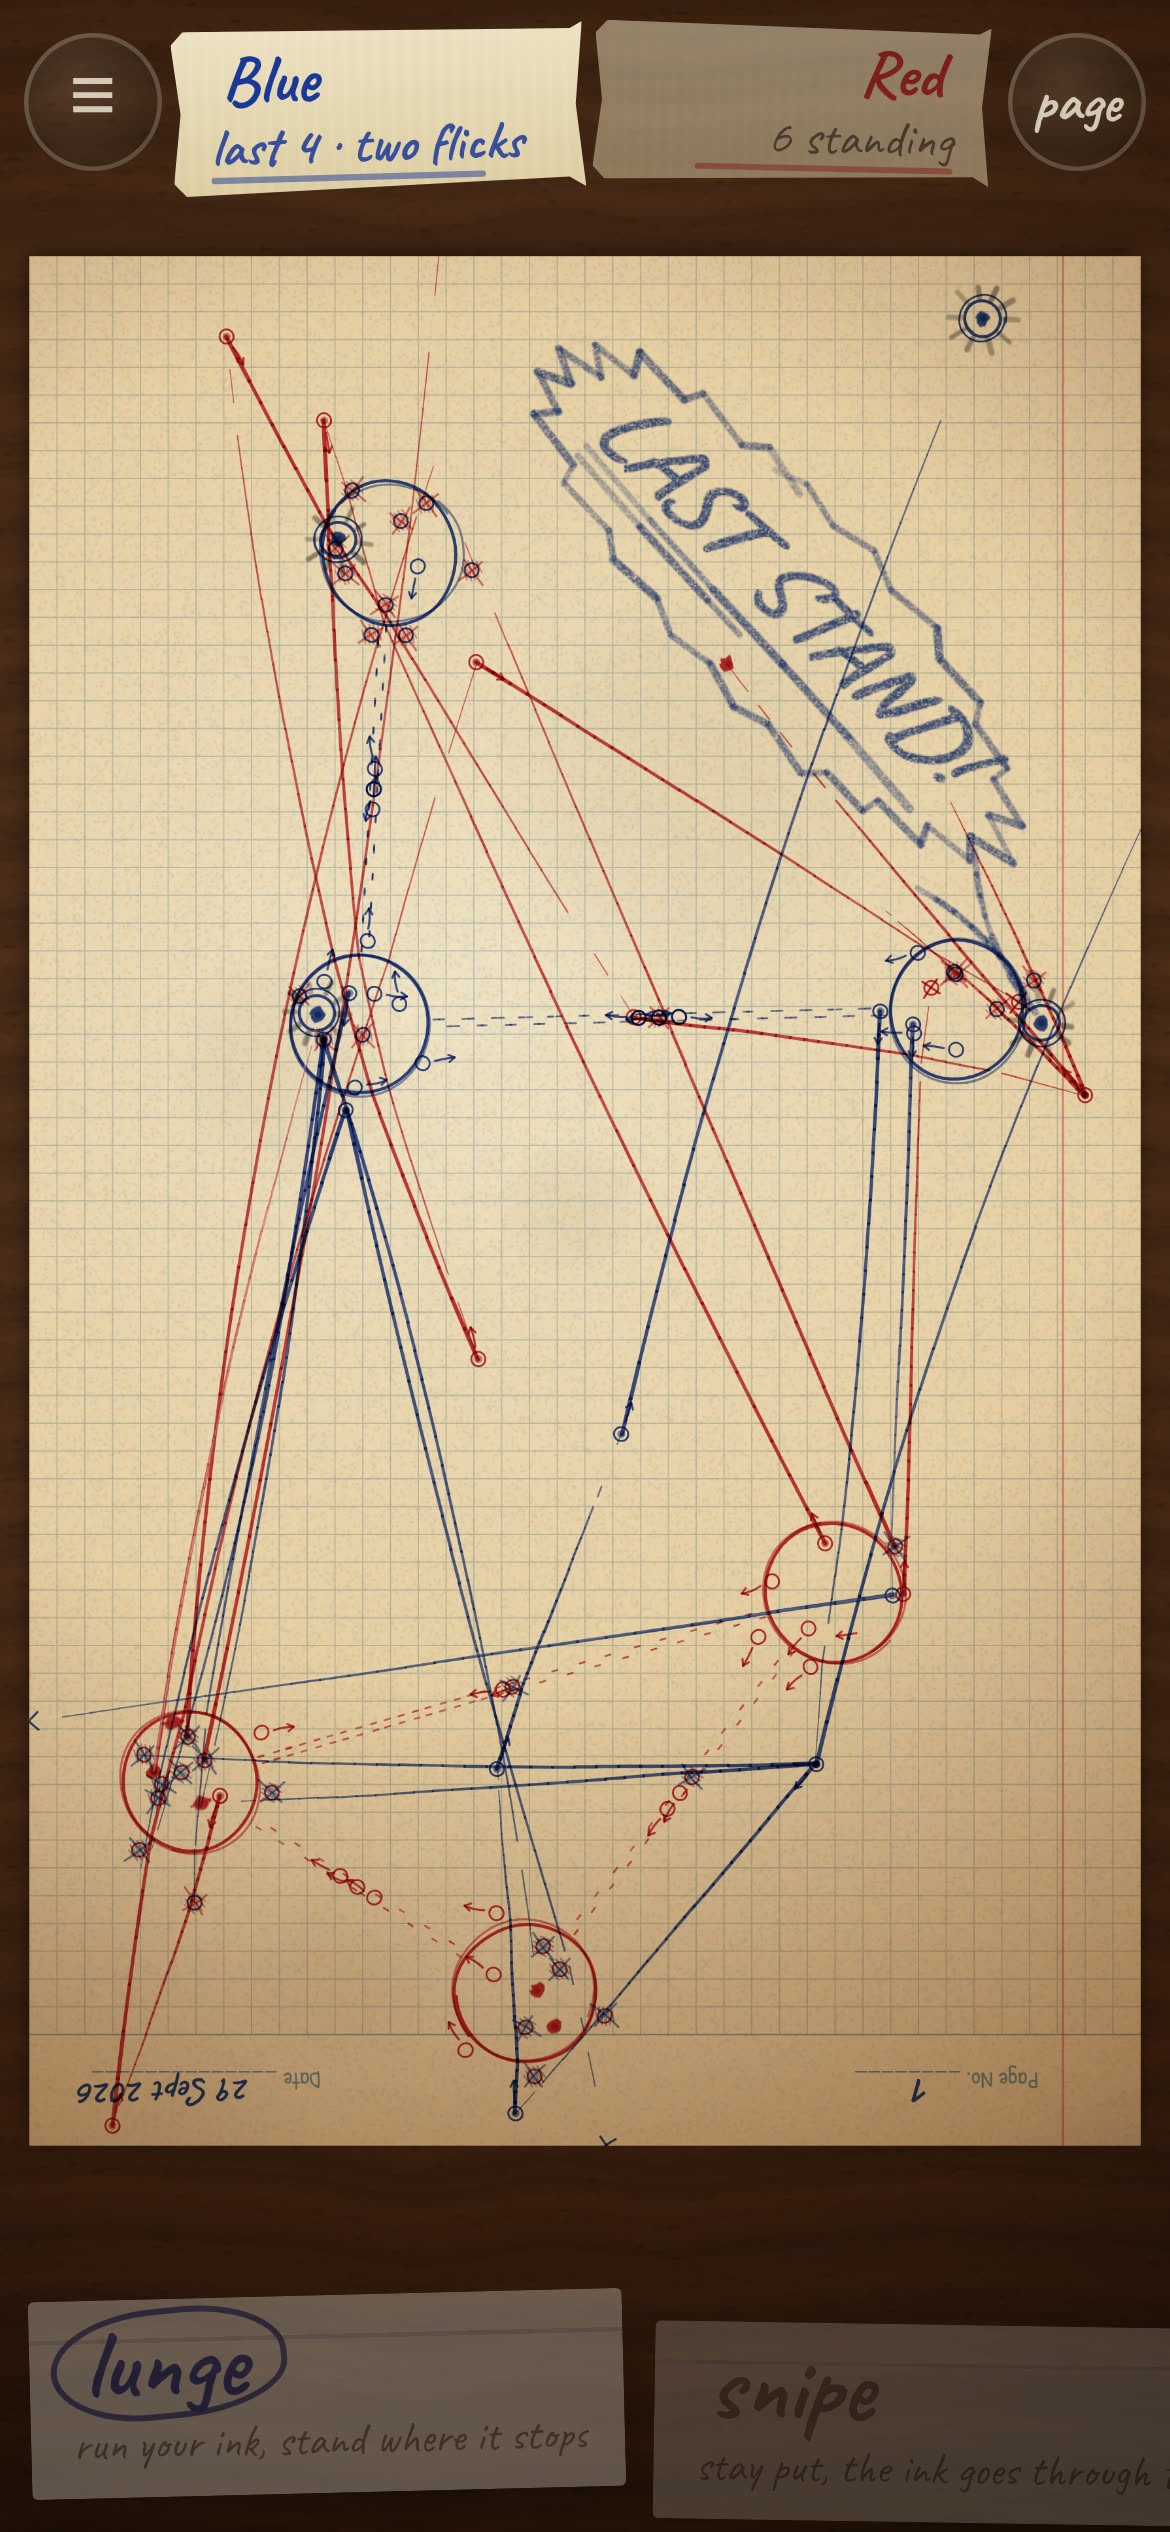
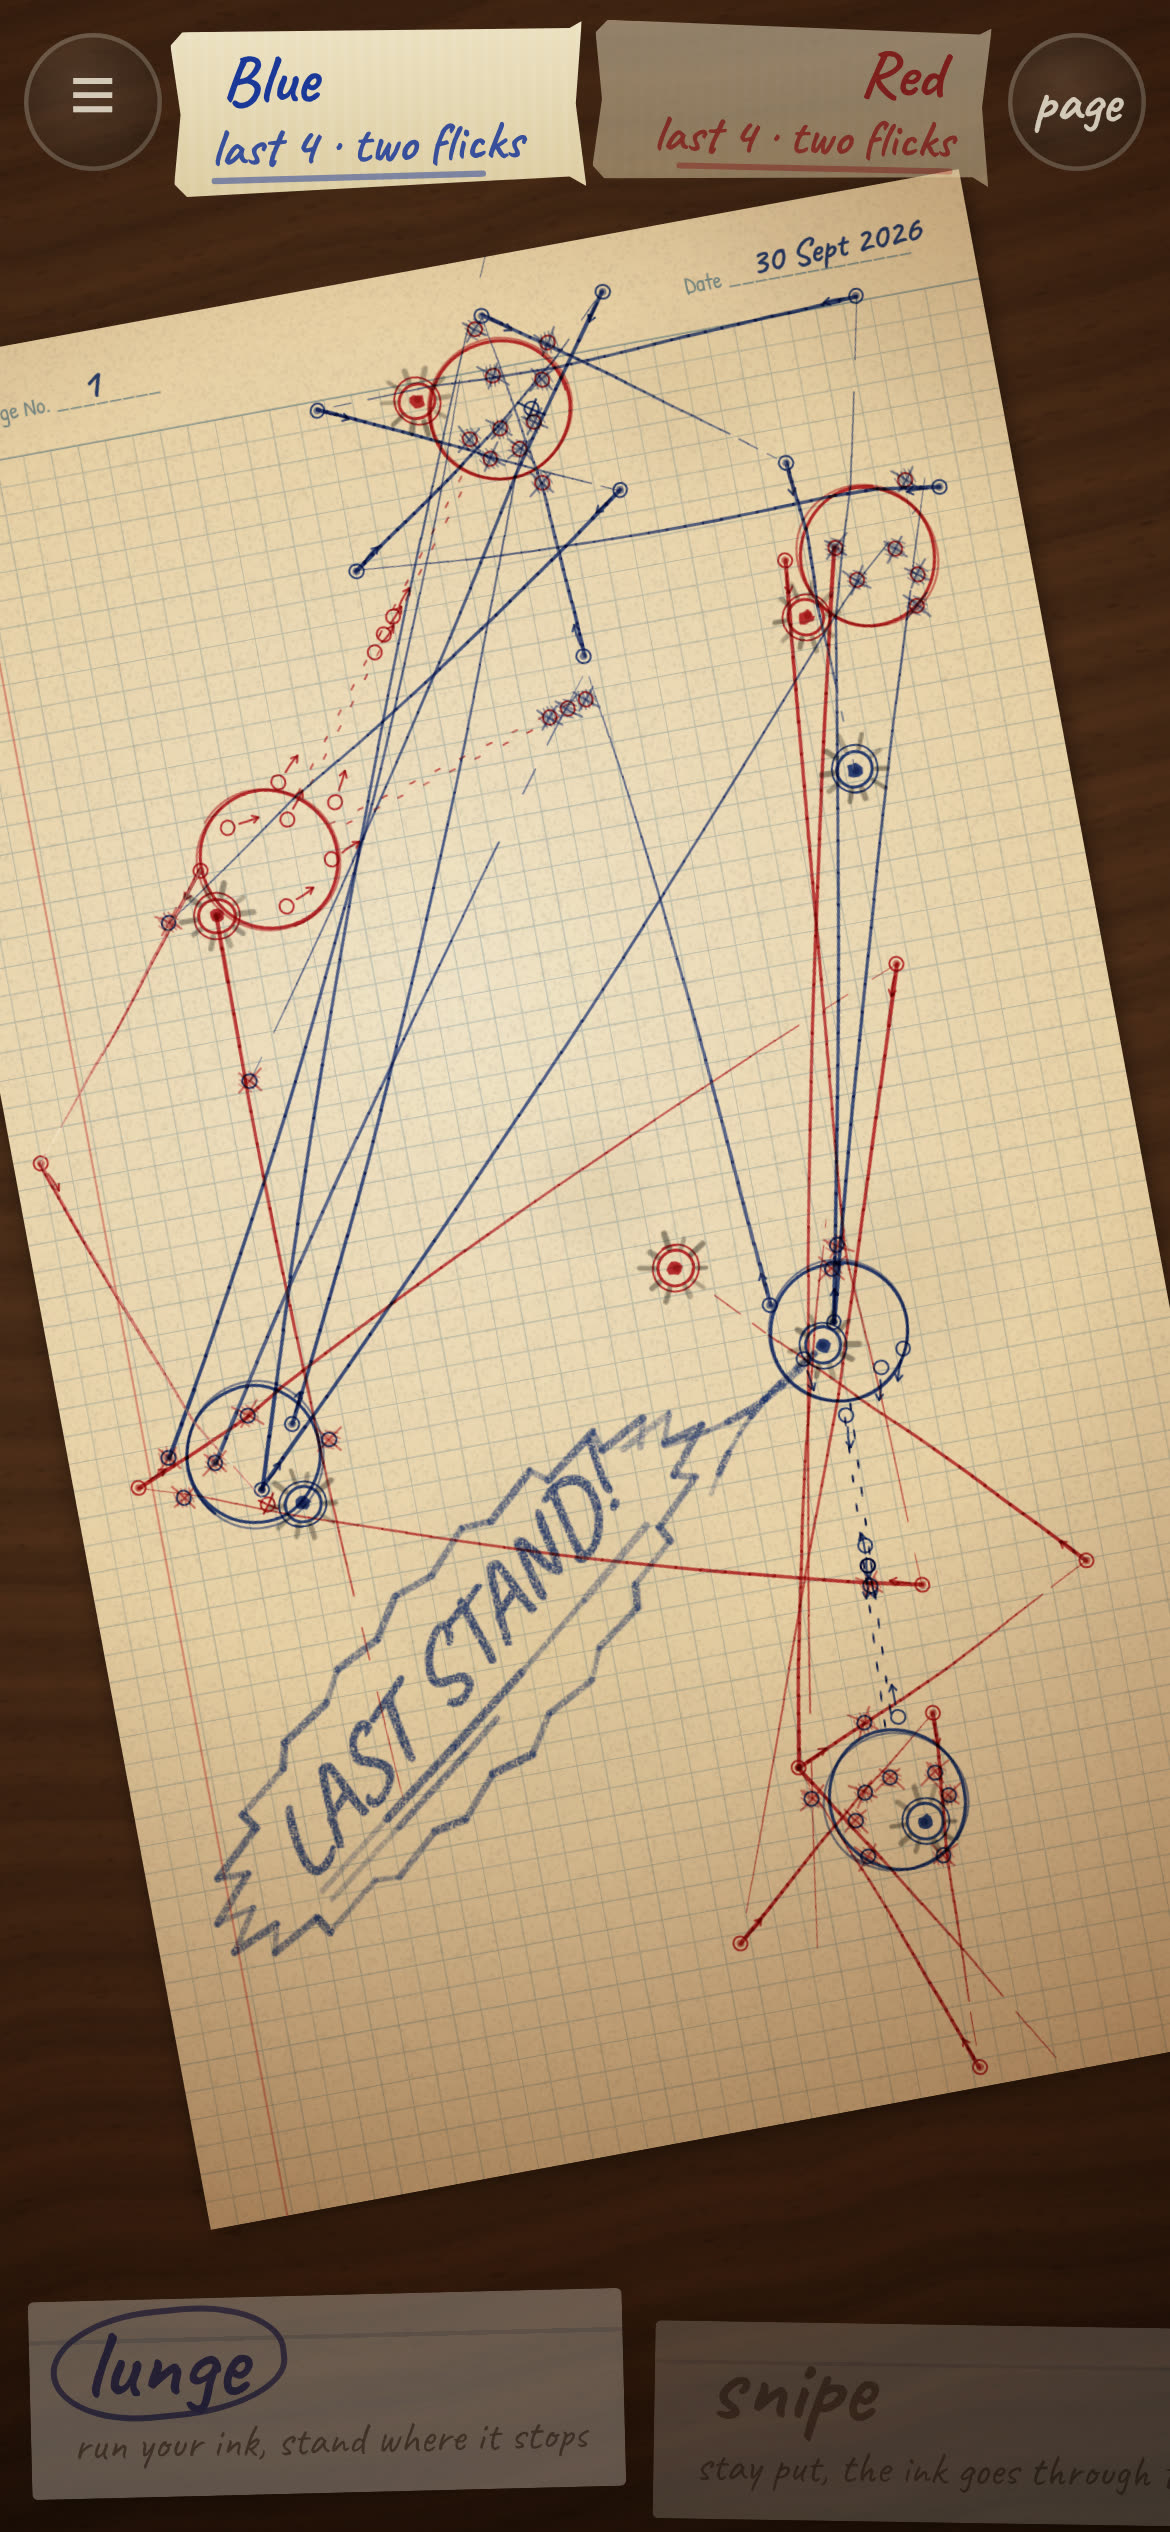
Moments: a lasting circled +1 from state, the last-stand note beside the survivors, notes wait for the camera
Two for one: a circled +n in the shooter's pen stays beside him until the extra flick is used. It derives from state (owedFlick: flicks left against the turn's allotment less strokes drawn, last action a snipe), so reloads, rooms and replays show it; it replaces the single-stroke tally. Last stand: the soldier nearest the survivors' centre speaks. Announcements wait (max 1.5s) for the camera to settle, since a note's gap is chosen once and one chosen mid-swing could sit off screen.

Changed region(s): [[0.0, 0.0312, 1.0, 0.9048]]

diff --git a/src/main.ts b/src/main.ts
@@ -9,7 +9,7 @@ import { Camera, type Pose } from "./camera";
 import { cue, onCue } from "./cues";
 import { aimError, pull, release, wobble, type Aim as Pull } from "./flick";
 import {
-  act, canArrange, canSend, garrison, illegal, newGame, other, pathLen, sendMax,
+  act, canArrange, canSend, garrison, illegal, newGame, other, owedFlick, pathLen, sendMax,
   type Action, type Flick, type GameState, type Kind, type Outcome, type Player, type Pt,
 } from "./game";
 import { jotOrder, pickSoldier, inBase } from "./hand";
@@ -624,7 +624,6 @@ function fire(f: Flick, power: number, lean: number, opts: { pen?: boolean; cam?
   const first = s.marks.length; // the flick appends its stroke, then its crosses
   const before = s.soldiers.map((x) => ({ x: x.x, y: x.y }));
   const o = turn.flick(s, f);
-  earnedTally = null;
   save();
   selected = undefined;
   aim = null;
@@ -723,10 +722,24 @@ function speak(kind: BubbleKind, id: number, t0 = wall, seed?: number) {
   if (bubbles.offer(kind, id, t0, seed ?? Math.floor(seeded(s.seed, s.turn, id, kind.length) * 2 ** 31))) dirty = true;
 }
 
-/** A moment the field must announce: written whatever the chance, after any other moment showing (bubble.ts Bubbles.moment). */
-function announce(kind: BubbleKind, id: number, text: string, t0 = wall + 120) {
+/**
+ * A moment the field must announce: written whatever the chance, after any other
+ * moment showing (bubble.ts Bubbles.moment). It waits for the camera to settle
+ * first (a note's gap is chosen once, so one picked while the camera swings out
+ * to bird's-eye would sit where the screen no longer is), for at most 1.5s.
+ */
+const momentQ: { kind: BubbleKind; id: number; text: string; since: number }[] = [];
+function announce(kind: BubbleKind, id: number, text: string, delay = 120) {
   if (!heard() || !s.soldiers[id]?.alive) return;
-  if (bubbles.moment(kind, id, t0, Math.floor(seeded(s.seed, s.turn, id, kind.length, text.length) * 2 ** 31), text)) dirty = true;
+  momentQ.push({ kind, id, text, since: wall + delay });
+  dirty = true;
+}
+function flushMoments() {
+  while (momentQ.length && wall >= momentQ[0].since && (cam.settled || wall - momentQ[0].since > 1500)) {
+    const m = momentQ.shift()!;
+    if (!heard() || !s.soldiers[m.id]?.alive) continue;
+    if (bubbles.moment(m.kind, m.id, wall, Math.floor(seeded(s.seed, s.turn, m.id, m.kind.length, m.text.length) * 2 ** 31), m.text)) dirty = true;
+  }
 }
 
 /** A soldier picked up: he perks up and says so; a campmate mutters. */
@@ -856,23 +869,23 @@ onCue((c, p) => {
   if (c !== "last-stand" || p === undefined || !heard()) return;
   const few = turn.aliveOf(s, p as Player);
   if (few[0]) voice.say("uhoh", few[0].id, p as Player, 0.15, 0.8);
-  if (few.length) announce("stand", few[Math.floor(seeded(s.seed, s.turn, 67) * few.length)].id, "LAST STAND!", wall + 250);
+  if (few.length) {
+    // beside the survivors: the one nearest their centre speaks
+    const cx = few.reduce((a, x) => a + x.x, 0) / few.length, cy = few.reduce((a, x) => a + x.y, 0) / few.length;
+    const mid = few.reduce((b, x) => (Math.hypot(x.x - cx, x.y - cy) < Math.hypot(b.x - cx, b.y - cy) ? x : b));
+    announce("stand", mid.id, "LAST STAND!", 250);
+  }
 });
 
 // Two with one, and a lunge chain: the earning flick's soldier writes it on the
-// field, and the earned flick is tallied beside him until it's used.
-let earnedTally: { id: number; n: number; turn: number } | null = null;
+// field. What stays (the "+1" beside the shooter, the chain's ring) is drawn from
+// state, not from here.
 let earnedBy: { id: number; kind: Kind } | null = null;
-onCue((c, left) => {
+onCue((c) => {
   if (c !== "earned" || !earnedBy) return;
   const who = earnedBy, c0 = core();
-  if (who.kind === "snipe") {
-    earnedTally = { id: who.id, n: Math.max(1, left ?? 1), turn: s.turn };
-    announce("twoFor", who.id, "2 for 1! +1 flick");
-  } else if (c0?.chain) {
-    announce("chain", c0.chain.soldier, c0.chain.link > 1 ? `lunge again ×${c0.chain.link}` : "lunge again!");
-  }
-  dirty = true;
+  if (who.kind === "snipe") announce("twoFor", who.id, "2 for 1! +1 flick");
+  else if (c0?.chain) announce("chain", c0.chain.soldier, c0.chain.link > 1 ? `lunge again ×${c0.chain.link}` : "lunge again!");
 });
 
 // What the status line says after a flick.
@@ -2209,6 +2222,7 @@ function frame(now: number) {
   const bo = boilOn();
   if (bo !== boilWas) { boilWas = bo; dirty = true; }
   // a bubble redraws only while it's written on or fading (on twos), and to go
+  flushMoments();
   const bb = bubbles.showing(wall), bk = bb ? bubbleAt(bb, wall, reduced)?.key ?? "" : "";
   if (bk !== bubbleKey) { bubbleKey = bk; dirty = true; }
   // now and then, on your go with nothing happening, a stray thought
@@ -2295,8 +2309,8 @@ function currentFrame(): Frame {
     if (held.length) f.stand = c0.soldiers.filter((x) => x.alive && held.includes(x.owner)).map((x) => ({ x: x.x, y: x.y }));
     const owed = c0.chain && c0.soldiers[c0.chain.soldier];
     if (owed?.alive) f.chain = { at: owed, link: c0.chain!.link };
-    const tl = earnedTally && screen === "game" && c0.soldiers[earnedTally.id];
-    if (tl && tl.alive && c0.left > 0 && earnedTally!.turn === c0.turn && !busy) f.tally = { at: tl, n: c0.left };
+    const owe = owedFlick(c0);
+    if (owe && c0.soldiers[owe.soldier].alive) f.tally = { at: c0.soldiers[owe.soldier], n: owe.n, owner: c0.soldiers[owe.soldier].owner };
   }
   if (lapse) {
     const p = Math.min(1, Math.max(0, (T - lapse.t0) / lapse.dur));

diff --git a/src/scene.ts b/src/scene.ts
@@ -76,8 +76,8 @@ export interface Frame {
   stand?: Pt[];
   /** A lunger owed another lunge: ringed twice, with what he's owed and how many links. */
   chain?: { at: Pt; link: number };
-  /** An earned flick not yet used: a tally beside the soldier who earned it, `n` strokes. */
-  tally?: { at: Pt; n: number };
+  /** An earned flick owed (owedFlick): a circled +n beside the soldier who earned it. */
+  tally?: { at: Pt; n: number; owner: 0 | 1 };
   /** Aiming a lunge: enemy bases with men at home, where he'd be shot if he landed. */
   danger?: { x: number; y: number; r: number }[];
   /** Pencilled help on the page; "note" writes `text` (a room waiting on the other side). */
@@ -458,14 +458,22 @@ function drawChain(g: Ctx, f: Frame, c: { at: Pt; link: number }, px: number, bo
   box.add(c.at.x, c.at.y, size * 6);
 }
 
-/** An earned flick waiting: `n` pencil tally strokes beside the man who earned it. */
-function drawTally(g: Ctx, f: Frame, t: { at: Pt; n: number }, px: number, box: Box) {
-  const w = Math.max(3.2, px * 2.6), h = 34, gap = 12;
-  for (let i = 0; i < t.n; i++) {
-    const a = upright(f, t.at, 26 + i * gap, -h * 0.5 - 8), b = upright(f, t.at, 26 + i * gap + 2, h * 0.5 - 8);
-    pencilLine(g, a, b, w, 91 + i, false);
+/** An earned flick owed: a circled "+1" beside the man who earned it, in his pen, big enough to read from bird's-eye. */
+function drawTally(g: Ctx, f: Frame, t: { at: Pt; n: number; owner: 0 | 1 }, px: number, box: Box) {
+  const size = Math.max(46, Math.min(96, 32 / f.view.z));
+  const p = upright(f, t.at, size * 1.2, -size * 0.9);
+  const pen = INK.pens[t.owner], w = Math.max(3, px * 2.4);
+  handText(g, `+${t.n}`, p.x, p.y + size * 0.3, size, pen, { weight: 700, rot: -f.view.rot, align: "center", alpha: 1, grain: 0.5 });
+  // circled twice, the way a hand circles what it means
+  const rng_ = rng(97 + t.n);
+  for (let k = 0; k < 2; k++) {
+    const r = size * (0.74 + k * 0.05), a0 = rng_() * 6.28;
+    const pts: Pt[] = [];
+    for (let i = 0; i <= 28; i++) { const a = a0 + (i / 28) * Math.PI * 2.1; pts.push({ x: p.x + Math.cos(a) * r * (1 + (rng_() - 0.5) * 0.06), y: p.y + Math.sin(a) * r * (1 + (rng_() - 0.5) * 0.06) }); }
+    pencilStroke(g, pts, pen, 97 + k, w, 1, 0.95, 0.5);
   }
-  box.add(t.at.x, t.at.y, 80);
+  box.add(p.x, p.y, size * 1.5);
+  box.add(t.at.x, t.at.y, 20);
 }
 
 /** A lunger at speed: three short pencil streaks trailing from him, the way a kid draws a fast thing. */

diff --git a/src/game.test.ts b/src/game.test.ts
@@ -3,7 +3,7 @@
 import { describe, expect, it } from "vitest";
 import { botAction, botArrange, botBase } from "./bot";
 import {
-  act, alive, canArrange, canFlick, canPlaceBase, canSend, columnSpots, garrison, hand, illegal, isRing, newGame, pathLen, preview, replay,
+  act, alive, owedFlick, canArrange, canFlick, canPlaceBase, canSend, columnSpots, garrison, hand, illegal, isRing, newGame, pathLen, preview, replay,
   type Action, type Flick, type GameState, type Player,
 } from "./game";
 import { CORE, RULES, SIZES, type CoreRules, type Size } from "./rules";
@@ -153,14 +153,29 @@ describe("snipe", () => {
     expect(o).toMatchObject({ earned: true, again: true });
     expect(s).toMatchObject({ current: 0, left: 1 });
     put(s, reds[2].id, 450, 1000); put(s, reds[3].id, 500, 1000);
+    expect(owedFlick(s)).toEqual({ soldier: me.id, n: 1 });
     o = act(s, flick(me.id, "snipe", 0, 400));
     expect(o).toMatchObject({ earned: true, again: true });
+    expect(owedFlick(s)).toEqual({ soldier: me.id, n: 1 });
     // one isn't enough
     put(s, reds[4].id, 150, 700);
     o = act(s, flick(me.id, "snipe", UP, 400));
     expect(o.killed).toEqual([reds[4].id]);
     expect(o).toMatchObject({ earned: false, again: false, handover: true });
     expect(s.current).toBe(1);
+    expect(owedFlick(s)).toBeUndefined();
+  });
+
+  it("owedFlick: nothing owed on a fresh turn, one owed after a two-kill snipe", () => {
+    const s = game(PAGE, 4);
+    expect(owedFlick(s)).toBeUndefined();
+    const me = of(s, 0)[0];
+    const reds = alive(s, 1);
+    park(s, s.soldiers.filter((x) => x.owner === 1 || (x.id !== me.id && x.owner === 0)).map((x) => x.id));
+    put(s, me.id, 150, 1000);
+    put(s, reds[0].id, 150, 900); put(s, reds[1].id, 150, 850);
+    act(s, flick(me.id, "snipe", UP, 300));
+    expect(owedFlick(s)).toEqual({ soldier: me.id, n: 1 });
   });
 });
 

diff --git a/src/game.ts b/src/game.ts
@@ -304,6 +304,25 @@ export function hand(s: GameState, id: number, kind: Kind) {
 }
 
 /** Flicks a side gets at the start of its turn. */
+/**
+ * An extra flick owed this turn from a snipe that took two (a lunge's is the
+ * chain's): who earned it, and how many are owed. Derived from state alone
+ * (flicks left against the turn's allotment less the strokes already drawn),
+ * so a reload, a room or a replay shows what the live game did.
+ */
+export function owedFlick(s: GameState): { soldier: number; n: number } | undefined {
+  if (s.phase !== "play" || s.chain) return undefined;
+  const p = s.current;
+  const start = s.stand[p] > 0 && s.stand[p] < s.turn ? s.rules.lastStandFlicks : 1; // a stand begun this turn doesn't bump this turn
+  let used = 0;
+  for (const m of s.marks) if (m.t === "stroke" && m.turn === s.turn && m.owner === p) used++;
+  // more flicks left than an unearned turn would leave; what's owed is the extra, never more than what's left
+  const n = Math.min(s.left, s.left - (start - used));
+  const last = s.actions[s.actions.length - 1];
+  if (n <= 0 || !used || last?.t !== "flick" || last.kind !== "snipe" || s.soldiers[last.soldier]?.owner !== p) return undefined;
+  return { soldier: last.soldier, n };
+}
+
 export const allotment = (s: GameState, p: Player) => (inLastStand(s, p) ? s.rules.lastStandFlicks : 1);
 
 /** How long a flick of this power is (0..1). Both kinds reach as far. */
